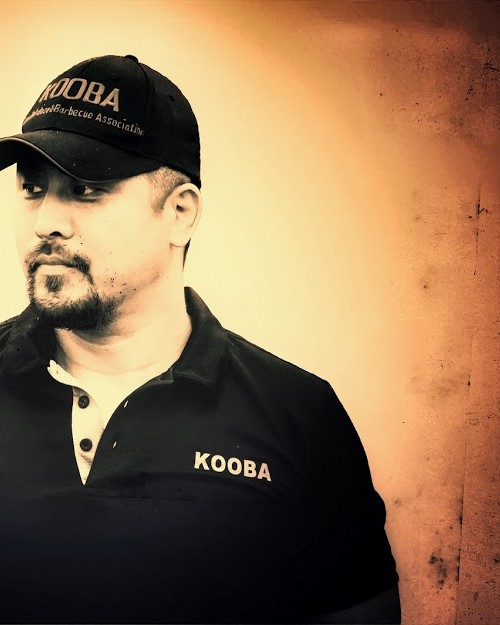
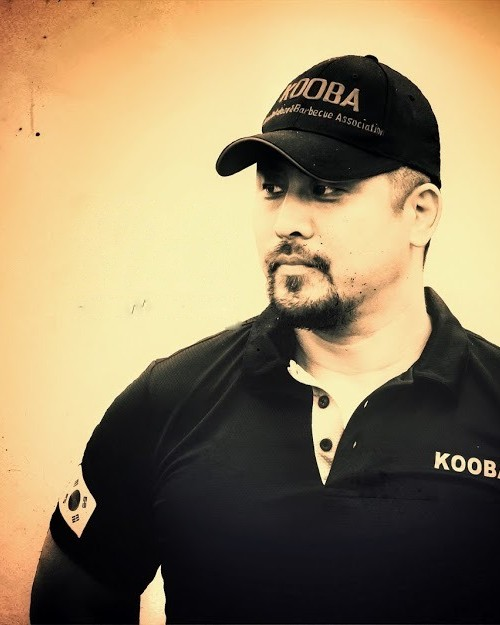
프로필 사진: 인물을 오른쪽으로, 왼쪽 여백
Claude-Session: https://claude.ai/code/session_01HsxCT5iLPDw7ArFCNnKZ7W

diff --git a/heritage-item.html b/heritage-item.html
@@ -18,7 +18,7 @@
 <link rel="preconnect" href="https://fonts.googleapis.com">
 <link rel="preconnect" href="https://fonts.gstatic.com" crossorigin>
 <link href="https://fonts.googleapis.com/css2?family=Cormorant+Garamond:ital,wght@0,400;0,500;0,600;1,500&family=EB+Garamond:wght@400;500&family=Noto+Serif+KR:wght@400;500&display=swap" rel="stylesheet">
-<link rel="stylesheet" href="assets/css/site.css?v=202610181647">
+<link rel="stylesheet" href="assets/css/site.css?v=202610181649">
 </head>
 <body data-page="heritageitem">
 <header id="site-header"></header>
@@ -27,6 +27,6 @@
 </main>
 <footer id="site-footer"></footer>
 <noscript><p class="noscript">This site needs JavaScript to show its content.</p></noscript>
-<script src="assets/js/site.js?v=202610181647"></script>
+<script src="assets/js/site.js?v=202610181649"></script>
 </body>
 </html>

diff --git a/barbecuers.html b/barbecuers.html
@@ -18,7 +18,7 @@
 <link rel="preconnect" href="https://fonts.googleapis.com">
 <link rel="preconnect" href="https://fonts.gstatic.com" crossorigin>
 <link href="https://fonts.googleapis.com/css2?family=Cormorant+Garamond:ital,wght@0,400;0,500;0,600;1,500&family=EB+Garamond:wght@400;500&family=Noto+Serif+KR:wght@400;500&display=swap" rel="stylesheet">
-<link rel="stylesheet" href="assets/css/site.css?v=202610181647">
+<link rel="stylesheet" href="assets/css/site.css?v=202610181649">
 </head>
 <body data-page="barbecuers">
 <header id="site-header"></header>
@@ -36,6 +36,6 @@
 </main>
 <footer id="site-footer"></footer>
 <noscript><p class="noscript">This site needs JavaScript to show its content.</p></noscript>
-<script src="assets/js/site.js?v=202610181647"></script>
+<script src="assets/js/site.js?v=202610181649"></script>
 </body>
 </html>

diff --git a/federation.html b/federation.html
@@ -18,7 +18,7 @@
 <link rel="preconnect" href="https://fonts.googleapis.com">
 <link rel="preconnect" href="https://fonts.gstatic.com" crossorigin>
 <link href="https://fonts.googleapis.com/css2?family=Cormorant+Garamond:ital,wght@0,400;0,500;0,600;1,500&family=EB+Garamond:wght@400;500&family=Noto+Serif+KR:wght@400;500&display=swap" rel="stylesheet">
-<link rel="stylesheet" href="assets/css/site.css?v=202610181647">
+<link rel="stylesheet" href="assets/css/site.css?v=202610181649">
 </head>
 <body data-page="federation">
 <header id="site-header"></header>
@@ -48,6 +48,6 @@
 </main>
 <footer id="site-footer"></footer>
 <noscript><p class="noscript">This site needs JavaScript to show its content.</p></noscript>
-<script src="assets/js/site.js?v=202610181647"></script>
+<script src="assets/js/site.js?v=202610181649"></script>
 </body>
 </html>

diff --git a/barbecuer.html b/barbecuer.html
@@ -18,7 +18,7 @@
 <link rel="preconnect" href="https://fonts.googleapis.com">
 <link rel="preconnect" href="https://fonts.gstatic.com" crossorigin>
 <link href="https://fonts.googleapis.com/css2?family=Cormorant+Garamond:ital,wght@0,400;0,500;0,600;1,500&family=EB+Garamond:wght@400;500&family=Noto+Serif+KR:wght@400;500&display=swap" rel="stylesheet">
-<link rel="stylesheet" href="assets/css/site.css?v=202610181647">
+<link rel="stylesheet" href="assets/css/site.css?v=202610181649">
 </head>
 <body data-page="barbecuer">
 <header id="site-header"></header>
@@ -27,6 +27,6 @@
 </main>
 <footer id="site-footer"></footer>
 <noscript><p class="noscript">This site needs JavaScript to show its content.</p></noscript>
-<script src="assets/js/site.js?v=202610181647"></script>
+<script src="assets/js/site.js?v=202610181649"></script>
 </body>
 </html>

diff --git a/chronicle.html b/chronicle.html
@@ -18,7 +18,7 @@
 <link rel="preconnect" href="https://fonts.googleapis.com">
 <link rel="preconnect" href="https://fonts.gstatic.com" crossorigin>
 <link href="https://fonts.googleapis.com/css2?family=Cormorant+Garamond:ital,wght@0,400;0,500;0,600;1,500&family=EB+Garamond:wght@400;500&family=Noto+Serif+KR:wght@400;500&display=swap" rel="stylesheet">
-<link rel="stylesheet" href="assets/css/site.css?v=202610181647">
+<link rel="stylesheet" href="assets/css/site.css?v=202610181649">
 </head>
 <body data-page="chronicle">
 <header id="site-header"></header>
@@ -30,6 +30,6 @@
 </main>
 <footer id="site-footer"></footer>
 <noscript><p class="noscript">This site needs JavaScript to show its content.</p></noscript>
-<script src="assets/js/site.js?v=202610181647"></script>
+<script src="assets/js/site.js?v=202610181649"></script>
 </body>
 </html>

diff --git a/404.html b/404.html
@@ -18,7 +18,7 @@
 <link rel="preconnect" href="https://fonts.googleapis.com">
 <link rel="preconnect" href="https://fonts.gstatic.com" crossorigin>
 <link href="https://fonts.googleapis.com/css2?family=Cormorant+Garamond:ital,wght@0,400;0,500;0,600;1,500&family=EB+Garamond:wght@400;500&family=Noto+Serif+KR:wght@400;500&display=swap" rel="stylesheet">
-<link rel="stylesheet" href="assets/css/site.css?v=202610181647">
+<link rel="stylesheet" href="assets/css/site.css?v=202610181649">
 </head>
 <body data-page="notfound">
 <header id="site-header"></header>
@@ -30,6 +30,6 @@
 </main>
 <footer id="site-footer"></footer>
 <noscript><p class="noscript">This site needs JavaScript to show its content.</p></noscript>
-<script src="assets/js/site.js?v=202610181647"></script>
+<script src="assets/js/site.js?v=202610181649"></script>
 </body>
 </html>

diff --git a/heritage.html b/heritage.html
@@ -18,7 +18,7 @@
 <link rel="preconnect" href="https://fonts.googleapis.com">
 <link rel="preconnect" href="https://fonts.gstatic.com" crossorigin>
 <link href="https://fonts.googleapis.com/css2?family=Cormorant+Garamond:ital,wght@0,400;0,500;0,600;1,500&family=EB+Garamond:wght@400;500&family=Noto+Serif+KR:wght@400;500&display=swap" rel="stylesheet">
-<link rel="stylesheet" href="assets/css/site.css?v=202610181647">
+<link rel="stylesheet" href="assets/css/site.css?v=202610181649">
 </head>
 <body data-page="heritage">
 <header id="site-header"></header>
@@ -48,6 +48,6 @@
 </main>
 <footer id="site-footer"></footer>
 <noscript><p class="noscript">This site needs JavaScript to show its content.</p></noscript>
-<script src="assets/js/site.js?v=202610181647"></script>
+<script src="assets/js/site.js?v=202610181649"></script>
 </body>
 </html>

diff --git a/partners.html b/partners.html
@@ -18,7 +18,7 @@
 <link rel="preconnect" href="https://fonts.googleapis.com">
 <link rel="preconnect" href="https://fonts.gstatic.com" crossorigin>
 <link href="https://fonts.googleapis.com/css2?family=Cormorant+Garamond:ital,wght@0,400;0,500;0,600;1,500&family=EB+Garamond:wght@400;500&family=Noto+Serif+KR:wght@400;500&display=swap" rel="stylesheet">
-<link rel="stylesheet" href="assets/css/site.css?v=202610181647">
+<link rel="stylesheet" href="assets/css/site.css?v=202610181649">
 </head>
 <body data-page="partners">
 <header id="site-header"></header>
@@ -36,6 +36,6 @@
 </main>
 <footer id="site-footer"></footer>
 <noscript><p class="noscript">This site needs JavaScript to show its content.</p></noscript>
-<script src="assets/js/site.js?v=202610181647"></script>
+<script src="assets/js/site.js?v=202610181649"></script>
 </body>
 </html>

diff --git a/rankings.html b/rankings.html
@@ -18,7 +18,7 @@
 <link rel="preconnect" href="https://fonts.googleapis.com">
 <link rel="preconnect" href="https://fonts.gstatic.com" crossorigin>
 <link href="https://fonts.googleapis.com/css2?family=Cormorant+Garamond:ital,wght@0,400;0,500;0,600;1,500&family=EB+Garamond:wght@400;500&family=Noto+Serif+KR:wght@400;500&display=swap" rel="stylesheet">
-<link rel="stylesheet" href="assets/css/site.css?v=202610181647">
+<link rel="stylesheet" href="assets/css/site.css?v=202610181649">
 </head>
 <body data-page="rankings">
 <header id="site-header"></header>
@@ -36,6 +36,6 @@
 </main>
 <footer id="site-footer"></footer>
 <noscript><p class="noscript">This site needs JavaScript to show its content.</p></noscript>
-<script src="assets/js/site.js?v=202610181647"></script>
+<script src="assets/js/site.js?v=202610181649"></script>
 </body>
 </html>

diff --git a/pathway.html b/pathway.html
@@ -18,7 +18,7 @@
 <link rel="preconnect" href="https://fonts.googleapis.com">
 <link rel="preconnect" href="https://fonts.gstatic.com" crossorigin>
 <link href="https://fonts.googleapis.com/css2?family=Cormorant+Garamond:ital,wght@0,400;0,500;0,600;1,500&family=EB+Garamond:wght@400;500&family=Noto+Serif+KR:wght@400;500&display=swap" rel="stylesheet">
-<link rel="stylesheet" href="assets/css/site.css?v=202610181647">
+<link rel="stylesheet" href="assets/css/site.css?v=202610181649">
 </head>
 <body data-page="pathway">
 <header id="site-header"></header>
@@ -33,6 +33,6 @@
 </main>
 <footer id="site-footer"></footer>
 <noscript><p class="noscript">This site needs JavaScript to show its content.</p></noscript>
-<script src="assets/js/site.js?v=202610181647"></script>
+<script src="assets/js/site.js?v=202610181649"></script>
 </body>
 </html>

diff --git a/events.html b/events.html
@@ -18,7 +18,7 @@
 <link rel="preconnect" href="https://fonts.googleapis.com">
 <link rel="preconnect" href="https://fonts.gstatic.com" crossorigin>
 <link href="https://fonts.googleapis.com/css2?family=Cormorant+Garamond:ital,wght@0,400;0,500;0,600;1,500&family=EB+Garamond:wght@400;500&family=Noto+Serif+KR:wght@400;500&display=swap" rel="stylesheet">
-<link rel="stylesheet" href="assets/css/site.css?v=202610181647">
+<link rel="stylesheet" href="assets/css/site.css?v=202610181649">
 </head>
 <body data-page="events">
 <header id="site-header"></header>
@@ -39,6 +39,6 @@
 </main>
 <footer id="site-footer"></footer>
 <noscript><p class="noscript">This site needs JavaScript to show its content.</p></noscript>
-<script src="assets/js/site.js?v=202610181647"></script>
+<script src="assets/js/site.js?v=202610181649"></script>
 </body>
 </html>

diff --git a/event.html b/event.html
@@ -18,7 +18,7 @@
 <link rel="preconnect" href="https://fonts.googleapis.com">
 <link rel="preconnect" href="https://fonts.gstatic.com" crossorigin>
 <link href="https://fonts.googleapis.com/css2?family=Cormorant+Garamond:ital,wght@0,400;0,500;0,600;1,500&family=EB+Garamond:wght@400;500&family=Noto+Serif+KR:wght@400;500&display=swap" rel="stylesheet">
-<link rel="stylesheet" href="assets/css/site.css?v=202610181647">
+<link rel="stylesheet" href="assets/css/site.css?v=202610181649">
 </head>
 <body data-page="event">
 <header id="site-header"></header>
@@ -27,6 +27,6 @@
 </main>
 <footer id="site-footer"></footer>
 <noscript><p class="noscript">This site needs JavaScript to show its content.</p></noscript>
-<script src="assets/js/site.js?v=202610181647"></script>
+<script src="assets/js/site.js?v=202610181649"></script>
 </body>
 </html>
